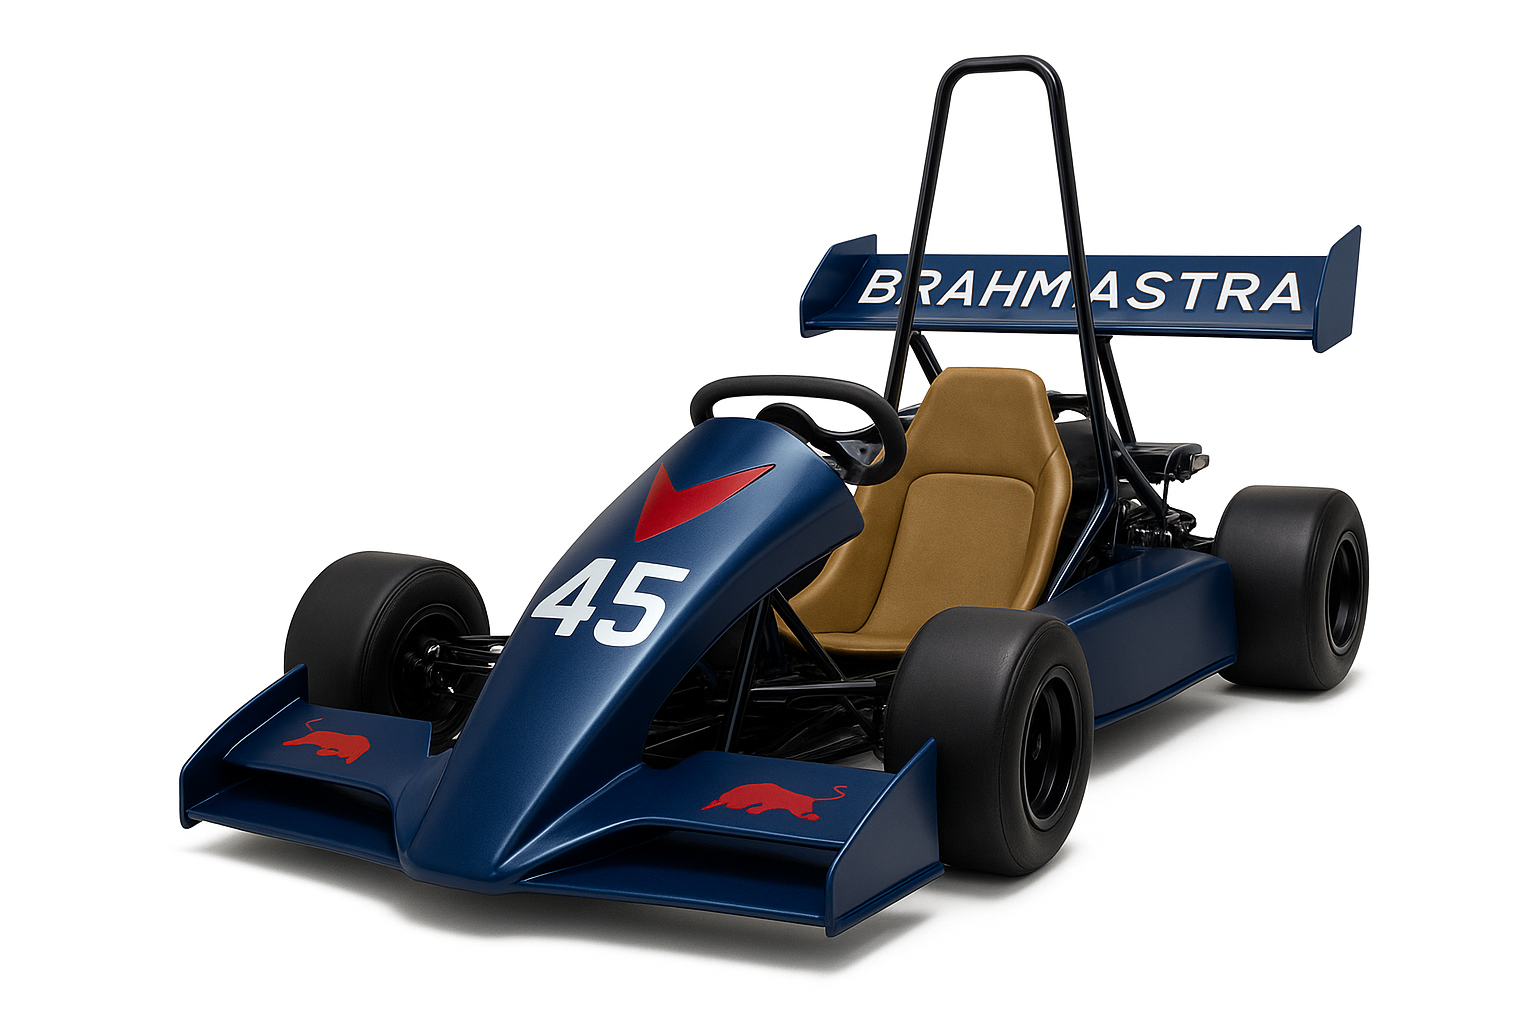
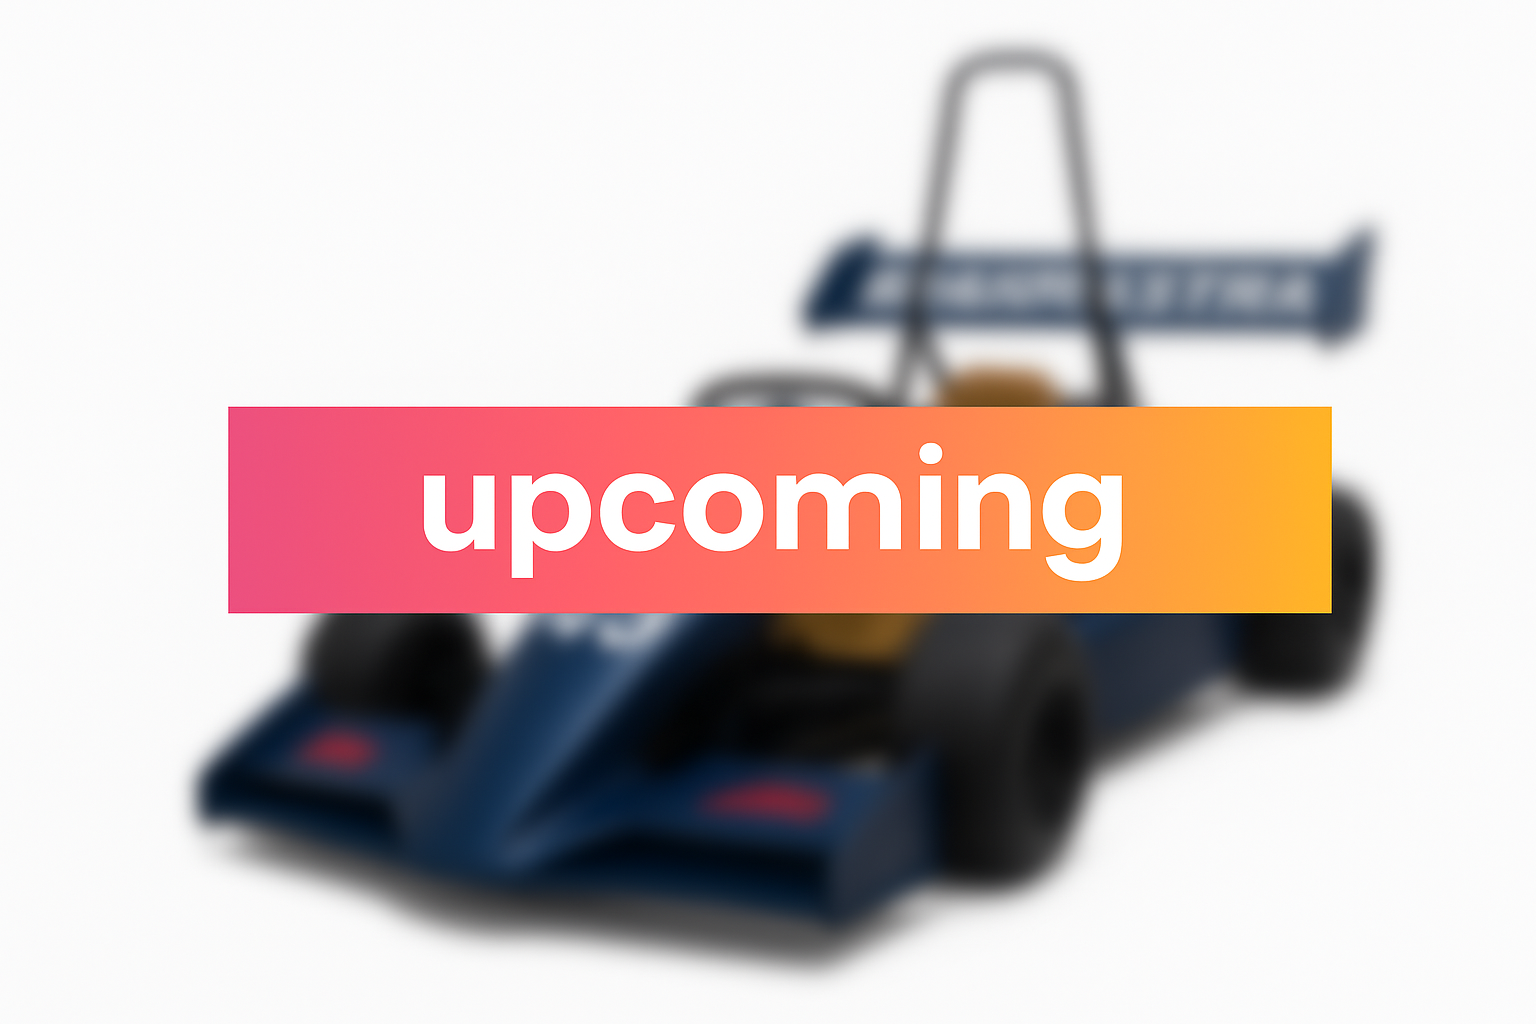
todo: responsive

Changed region(s): [[0.0938, 0.0312, 0.9062, 0.9688]]

diff --git a/index.html b/index.html
@@ -79,7 +79,7 @@
                 <div class="social-links">
                     <a href="https://www.facebook.com/profile.php?id=61582535736097" target="_blank" title="Facebook"><i class="fab fa-facebook-f"></i></a>
                     <a href="https://www.instagram.com/brahmastra_gces/" target="_blank" title="Instagram"><i class="fab fa-instagram"></i></a>
-                    <a href="https://www.linkedin.com/in/project-gk-495a0838b" target="_blank" title="LinkedIn"><i class="fab fa-linkedin-in"></i></a>
+                    <a href="https://www.linkedin.com/in/team-brahmastra-gces-495a0838b" target="_blank" title="LinkedIn"><i class="fab fa-linkedin-in"></i></a>
                 </div>
             </div>
         </footer>
@@ -187,7 +187,7 @@
             <div class="social-links">
                 <a href="https://www.facebook.com/profile.php?id=61582535736097" target="_blank" title="Facebook"><i class="fab fa-facebook-f"></i></a>
                 <a href="https://www.instagram.com/brahmastra_gces/" target="_blank" title="Instagram"><i class="fab fa-instagram"></i></a>
-                <a href="https://www.linkedin.com/in/project-gk-495a0838b" target="_blank" title="LinkedIn"><i class="fab fa-linkedin-in"></i></a>
+                <a href="https://www.linkedin.com/in/team-brahmastra-gces-495a0838b" target="_blank" title="LinkedIn"><i class="fab fa-linkedin-in"></i></a>
             </div>
         </div>
     </footer>
@@ -259,44 +259,11 @@
             <div class="social-links">
                 <a href="https://www.facebook.com/profile.php?id=61582535736097" target="_blank" title="Facebook"><i class="fab fa-facebook-f"></i></a>
                 <a href="https://www.instagram.com/brahmastra_gces/" target="_blank" title="Instagram"><i class="fab fa-instagram"></i></a>
-                <a href="https://www.linkedin.com/in/project-gk-495a0838b" target="_blank" title="LinkedIn"><i class="fab fa-linkedin-in"></i></a>
+                <a href="https://www.linkedin.com/in/team-brahmastra-gces-495a0838b" target="_blank" title="LinkedIn"><i class="fab fa-linkedin-in"></i></a>
             </div>
         </div>
     </footer>
   </div>
-
-    <!-- EVENTS PAGE -->
-    <!-- <div id="events" class="page">
-        <section class="events">
-            <div class="container">
-                <h2>Upcoming Events</h2>
-                <div class="event-grid">
-                    <div class="event-card">
-                        <div class="event-header">
-                            <h3>Championship Series</h3>
-                            <div class="event-date">Oct 23, 2025</div>
-                        </div>
-                        <div class="event-details">
-                            <p><strong>Time:</strong> 3:00 PM - 6:00 PM</p>
-                            <p><strong>Location:</strong> HOD Room</p>
-                            <p>Battle for glory in our exclusive championship race. Winners receive trophies and prizes!</p>
-                            <p class="event-fee"><strong>Entry Fee: $50</strong></p>
-                        </div>
-                    </div>
-                </div>
-            </div>
-        </section>
-        <footer>
-            <div class="footer-content">
-                <p>&copy; 2025 Brahmastra Go-Kart Racing. All rights reserved.</p>
-                <div class="social-links">
-                    <a href="https://www.facebook.com/profile.php?id=61582535736097" target="_blank" title="Facebook"><i class="fab fa-facebook-f"></i></a>
-                    <a href="https://www.instagram.com/brahmastra_gces/" target="_blank" title="Instagram"><i class="fab fa-instagram"></i></a>
-                    <a href="https://www.linkedin.com/in/project-gk-495a0838b" target="_blank" title="LinkedIn"><i class="fab fa-linkedin-in"></i></a>
-                </div>
-            </div>
-        </footer>
-    </div> -->
     <!-- <div class="countdown-container">
                             <div class="countdown" id="countdown-1">
                                 <div class="countdown-item">
@@ -387,50 +354,11 @@
         <div class="social-links">
           <a href="https://www.facebook.com/profile.php?id=61582535736097" target="_blank" title="Facebook"><i class="fab fa-facebook-f"></i></a>
           <a href="https://www.instagram.com/brahmastra_gces/" target="_blank" title="Instagram"><i class="fab fa-instagram"></i></a>
-          <a href="https://www.linkedin.com/in/project-gk-495a0838b" target="_blank" title="LinkedIn"><i class="fab fa-linkedin-in"></i></a>
+          <a href="https://www.linkedin.com/in/team-brahmastra-gces-495a0838b" target="_blank" title="LinkedIn"><i class="fab fa-linkedin-in"></i></a>
         </div>
       </div>
     </footer>
   </div>
-    <!-- GALLERY PAGE -->
-    <!-- <div id="gallery" class="page">
-        <section class="gallery">
-            <div class="container">
-                <h2>Gallery</h2>
-                <div class="gallery-grid">
-                    <div class="gallery-item" onclick="openModal(0)">
-                        <img src="  https://images.unsplash.com/photo-1553440569-bcc63803a83d?ixlib=rb-4.0.3&ixid=M3wxMjA3fDB8MHxwaG90by1wYWdlfHx8fGVufDB8fHx8fA%3D%3D&auto=format&fit=crop&w=1169&q=80" alt="Go-kart racing" />
-                        <div class="gallery-overlay">
-                            <span>View</span>
-                        </div>
-                    </div>
-                    <div class="gallery-item" onclick="openModal(1)">
-                        <img src="  https://images.unsplash.com/photo-1637858868799-7f26a0640eb6?ixlib=rb-4.0.3&ixid=M3wxMjA3fDB8MHxwaG90by1wYWdlfHx8fGVufDB8fHx8fA%3D%3D&auto=format&fit=crop&w=1170&q=80" alt="Team working" />
-                        <div class="gallery-overlay">
-                            <span>View</span>
-                        </div>
-                    </div>
-                </div>
-            </div>
-        </section>
-
-        <div id="modal" class="modal">
-            <span class="close" onclick="closeModal()">&times;</span>
-            <img class="modal-content" id="modal-img">
-            <div id="caption"></div>
-        </div>
-        
-        <footer>
-            <div class="footer-content">
-                <p>&copy; 2025 Brahmastra Go-Kart Racing. All rights reserved.</p>
-                <div class="social-links">
-                    <a href="https://www.facebook.com/profile.php?id=61582535736097" target="_blank" title="Facebook"><i class="fab fa-facebook-f"></i></a>
-                    <a href="https://www.instagram.com/brahmastra_gces/" target="_blank" title="Instagram"><i class="fab fa-instagram"></i></a>
-                    <a href="https://www.linkedin.com/in/project-gk-495a0838b" target="_blank" title="LinkedIn"><i class="fab fa-linkedin-in"></i></a>
-                </div>
-            </div>
-        </footer>
-    </div> -->
 <div id="gallery" class="page">
         <section class="gallery">
             <div class="container">
@@ -438,26 +366,26 @@
                 <div class="folders-grid">
                     <div class="folder-item" onclick="openFolder(0)">
                         <div class="folder-preview">
-                            <img src="https://images.unsplash.com/photo-1553440569-bcc63803a83d?ixlib=rb-4.0.3&ixid=M3wxMjA3fDB8MHxwaG90by1wYWdlfHx8fGVufDB8fHx8fA%3D%3D&auto=format&fit=crop&w=1169&q=80" alt="Go-kart racing" />
+                            <img src="proto14.png" alt="Go-kart racing" />
                             <div class="folder-overlay">
                                 <span>View Folder</span>
                             </div>
                         </div>
                         <div class="folder-info">
-                            <h3>Go-Kart Racing</h3>
+                            <h3>Prototype</h3>
                             <p>Action shots from our racing events</p>
                         </div>
                     </div>
                     <div class="folder-item" onclick="openFolder(1)">
                         <div class="folder-preview">
-                            <img src="https://images.unsplash.com/photo-1637858868799-7f26a0640eb6?ixlib=rb-4.0.3&ixid=M3wxMjA3fDB8MHxwaG90by1wYWdlfHx8fGVufDB8fHx8fA%3D%3D&auto=format&fit=crop&w=1170&q=80" alt="Team working" />
+                            <img src="upcoming-model.png" alt="Team working" />
                             <div class="folder-overlay">
                                 <span>View Folder</span>
                             </div>
                         </div>
                         <div class="folder-info">
-                            <h3>Team Building</h3>
-                            <p>Behind the scenes and team activities</p>
+                            <h3>Brahmastra</h3>
+                            <p>Upcoming</p>
                         </div>
                     </div>
                 </div>
@@ -476,14 +404,23 @@
                 </div>
             </div>
         </div>
+        <div id="folder-modal" class="modal">
+            </div>
+
+        <div id="modal" class="modal">
+            <span class="close" onclick="closeModal()">&times;</span>
+            <img class="modal-content" id="modal-img" src="">
+        </div>
         
+        <footer>
+            </footer>
         <footer>
             <div class="footer-content">
                 <p>&copy; 2025 Brahmastra Go-Kart Racing. All rights reserved.</p>
                 <div class="social-links">
                     <a href="https://www.facebook.com/profile.php?id=61582535736097" target="_blank" title="Facebook"><i class="fab fa-facebook-f"></i></a>
                     <a href="https://www.instagram.com/brahmastra_gces/" target="_blank" title="Instagram"><i class="fab fa-instagram"></i></a>
-                    <a href="https://www.linkedin.com/in/project-gk-495a0838b" target="_blank" title="LinkedIn"><i class="fab fa-linkedin-in"></i></a>
+                    <a href="https://www.linkedin.com/in/team-brahmastra-gces-495a0838b" target="_blank" title="LinkedIn"><i class="fab fa-linkedin-in"></i></a>
                 </div>
             </div>
         </footer>
@@ -531,7 +468,7 @@
                 <div class="social-links">
                     <a href="https://www.facebook.com/profile.php?id=61582535736097" target="_blank" title="Facebook"><i class="fab fa-facebook-f"></i></a>
                     <a href="https://www.instagram.com/brahmastra_gces/" target="_blank" title="Instagram"><i class="fab fa-instagram"></i></a>
-                    <a href="https://www.linkedin.com/in/project-gk-495a0838b" target="_blank" title="LinkedIn"><i class="fab fa-linkedin-in"></i></a>
+                    <a href="https://www.linkedin.com/in/team-brahmastra-gces-495a0838b" target="_blank" title="LinkedIn"><i class="fab fa-linkedin-in"></i></a>
                 </div>
             </div>
         </footer>
@@ -585,7 +522,7 @@
                 <div class="social-links">
                     <a href="https://www.facebook.com/profile.php?id=61582535736097" target="_blank" title="Facebook"><i class="fab fa-facebook-f"></i></a>
                     <a href="https://www.instagram.com/brahmastra_gces/" target="_blank" title="Instagram"><i class="fab fa-instagram"></i></a>
-                    <a href="https://www.linkedin.com/in/project-gk-495a0838b" target="_blank" title="LinkedIn"><i class="fab fa-linkedin-in"></i></a>
+                    <a href="https://www.linkedin.com/in/team-brahmastra-gces-495a0838b" target="_blank" title="LinkedIn"><i class="fab fa-linkedin-in"></i></a>
                 </div>
             </div>
         </footer>
@@ -614,23 +551,19 @@
         });
 
         // Gallery Modal Functions
-        function openModal(index) {
-            document.getElementById('modal').style.display = 'block';
-            // In a real implementation, you would set the modal image source based on the index
-            // document.getElementById('modal-img').src = galleryImages[index].src;
+        // Gallery Modal Functions
+        function openModal(src) { // Changed 'index' to 'src'
+            const modal = document.getElementById('modal');
+            const modalImg = document.getElementById('modal-img');
+
+            modalImg.src = src; // Set the image source
+            modal.style.display = 'block'; // Show the modal
         }
 
         function closeModal() {
             document.getElementById('modal').style.display = 'none';
         }
 
-        // Close modal if clicked outside the image
-        window.onclick = function(event) {
-            const modal = document.getElementById('modal');
-            if (event.target === modal) {
-                closeModal();
-            }
-        }
 // Registration Form Handler
         function handleRegistration(event) {
             event.preventDefault(); // Stop the form from reloading the page
@@ -706,51 +639,50 @@
         }
 
         // Update the countdown every second
-        const countdownInterval = setInterval(updateCountdown, 1000);
+        // const countdownInterval = setInterval(updateCountdown, 1000);
         // Initial call to set the time immediately
-        updateCountdown();
+        // updateCountdown();
          // Folder data
         const folders = [
             {
-                title: "Go-Kart Racing",
-                images: [
-                    {
-                        src: "https://images.unsplash.com/photo-1553440569-bcc63803a83d?ixlib=rb-4.0.3&ixid=M3wxMjA3fDB8MHxwaG90by1wYWdlfHx8fGVufDB8fHx8fA%3D%3D&auto=format&fit=crop&w=1169&q=80",
-                        alt: "Go-kart racing action shot"
-                    },
-                    {
-                        src: "https://images.unsplash.com/photo-1594744803329-e58b31de8bf5?ixlib=rb-4.0.3&ixid=M3wxMjA3fDB8MHxwaG90by1wYWdlfHx8fGVufDB8fHx8fA%3D%3D&auto=format&fit=crop&w=687&q=80",
-                        alt: "Racing team preparing"
-                    },
-                    {
-                        src: "https://images.unsplash.com/photo-1549313861-33587f3d2956?ixlib=rb-4.0.3&ixid=M3wxMjA3fDB8MHxwaG90by1wYWdlfHx8fGVufDB8fHx8fA%3D%3D&auto=format&fit=crop&w=1170&q=80",
-                        alt: "Go-kart close up"
-                    },
-                    {
-                        src: "https://images.unsplash.com/photo-1562157873-818bc0726f68?ixlib=rb-4.0.3&ixid=M3wxMjA3fDB8MHxwaG90by1wYWdlfHx8fGVufDB8fHx8fA%3D%3D&auto=format&fit=crop&w=627&q=80",
-                        alt: "Racing track view"
-                    }
+                title: "Prototype",
+                images : [
+                { src: "proto1.jpg", alt: "Go-kart racing action shot" },
+                { src: "proto2.jpg", alt: "Racing team preparing" },
+                { src: "proto3.jpg", alt: "Go-kart close-up on track" },
+                { src: "proto4.jpg", alt: "Driver adjusting helmet" },
+                { src: "proto5.jpg", alt: "Go-kart lineup before race" },
+                { src: "proto6.jpg", alt: "Pit crew at work" },
+                { src: "proto7.jpg", alt: "Cornering at high speed" },
+                { src: "proto8.jpg", alt: "Team celebrating victory" },
+                { src: "proto9.jpg", alt: "Driver inside the cockpit" },
+                { src: "proto10.jpg", alt: "Trackside view of race" },
+                { src: "proto11.jpg", alt: "Overhead drone shot of race" },
+                { src: "proto12.jpg", alt: "Team discussing race strategy" },
+                { src: "proto13.jpg", alt: "Driver overtaking competitor" },
+                { src: "proto14.png", alt: "Go-kart under night lights" }
                 ]
+
             },
             {
-                title: "Team Building",
+                title: "Brahamastra Upcoming",
                 images: [
-                    {
-                        src: "https://images.unsplash.com/photo-1637858868799-7f26a0640eb6?ixlib=rb-4.0.3&ixid=M3wxMjA3fDB8MHxwaG90by1wYWdlfHx8fGVufDB8fHx8fA%3D%3D&auto=format&fit=crop&w=1170&q=80",
-                        alt: "Team working together"
-                    },
-                    {
-                        src: "https://images.unsplash.com/photo-1552664730-d307ca884978?ixlib=rb-4.0.3&ixid=M3wxMjA3fDB8MHxwaG90by1wYWdlfHx8fGVufDB8fHx8fA%3D%3D&auto=format&fit=crop&w=1170&q=80",
-                        alt: "Team meeting"
-                    },
-                    {
-                        src: "https://images.unsplash.com/photo-1542744173-8e7e53415bb0?ixlib=rb-4.0.3&ixid=M3wxMjA3fDB8MHxwaG90by1wYWdlfHx8fGVufDB8fHx8fA%3D%3D&auto=format&fit=crop&w=1170&q=80",
-                        alt: "Team collaboration"
-                    },
-                    {
-                        src: "https://images.unsplash.com/photo-1559028012-481c04fa702d?ixlib=rb-4.0.3&ixid=M3wxMjA3fDB8MHxwaG90by1wYWdlfHx8fGVufDB8fHx8fA%3D%3D&auto=format&fit=crop&w=1036&q=80",
-                        alt: "Team celebration"
-                    }
+                    // {
+                    //     src: "https://images.unsplash.com/photo-1637858868799-7f26a0640eb6?ixlib=rb-4.0.3&ixid=M3wxMjA3fDB8MHxwaG90by1wYWdlfHx8fGVufDB8fHx8fA%3D%3D&auto=format&fit=crop&w=1170&q=80",
+                    //     alt: "Team working together"
+                    // },
+                    // {
+                    //     src: "https://images.unsplash.com/photo-1552664730-d307ca884978?ixlib=rb-4.0.3&ixid=M3wxMjA3fDB8MHxwaG90by1wYWdlfHx8fGVufDB8fHx8fA%3D%3D&auto=format&fit=crop&w=1170&q=80",
+                    //     alt: "Team meeting"
+                    // },
+                    // {
+                    //     src: "https://images.unsplash.com/photo-1542744173-8e7e53415bb0?ixlib=rb-4.0.3&ixid=M3wxMjA3fDB8MHxwaG90by1wYWdlfHx8fGVufDB8fHx8fA%3D%3D&auto=format&fit=crop&w=1170&q=80",
+                    //     alt: "Team collaboration"
+                    // },
+                    // {
+                    //     src: "https://images.unsplash.com/photo-1559028012-481c04fa702d?ixlib=rb-4.0.3&ixid=M3wxMjA3fDB8MHxwaG90by1wYWdlfHx8fGVufDB8fHx8fA%3D%3D&auto=format&fit=crop&w=1036&q=80",
+                    //     alt: "Team celebration"
+                    // }
                 ]
             }
         ];
@@ -773,6 +705,7 @@
                 const imageElement = document.createElement('div');
                 imageElement.className = 'folder-image';
                 imageElement.innerHTML = `<img src="${image.src}" alt="${image.alt}" />`;
+                imageElement.setAttribute('onclick', `openModal('${image.src}')`);
                 imagesContainer.appendChild(imageElement);
             });
             
@@ -785,11 +718,17 @@
             document.getElementById('folder-modal').style.display = 'none';
         }
 
-        // Close modal when clicking outside the content
+        // Close modals when clicking outside the content
         window.onclick = function(event) {
-            const modal = document.getElementById('folder-modal');
-            if (event.target === modal) {
+            const folderModal = document.getElementById('folder-modal');
+            const imageModal = document.getElementById('modal'); // Get the image modal
+
+            if (event.target === folderModal) {
                 closeFolderModal();
+            }
+
+            if (event.target === imageModal) { // Add this check
+                closeModal();
             }
         }
     </script>

diff --git a/styles.css b/styles.css
@@ -1398,7 +1398,32 @@ footer {
     gap: 20px;
     padding: 10px 0;
 }
+/* --- Event Status Tags --- */
+.event-status {
+    display: inline-block;
+    padding: 0.4rem 0.8rem;
+    border-radius: 20px; /* Pill shape */
+    font-family: 'Montserrat', sans-serif;
+    font-size: 0.75rem;
+    font-weight: 700;
+    text-transform: uppercase;
+    letter-spacing: 1px;
+    margin-top: 1rem;
+    text-align: center;
+    border: 1px solid; /* Base border */
+}
 
+.status-upcoming {
+    color: #dd8f1b; /* Your main accent red */
+    border-color: #ffb83394;
+    background-color: rgba(255, 51, 51, 0.1); /* Subtle red glow */
+}
+
+.status-completed {
+    color: #1d831d; /* Muted gray text */
+    border-color: #10972263;
+    background-color: rgba(85, 85, 85, 0.1); /* Subtle gray fill */
+}
 .folder-image {
     border-radius: 8px;
     overflow: hidden;
